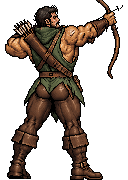
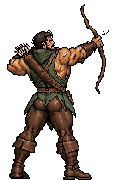
Jay: complete the clipped upper bow limb (A and B), rebuild shards and foot data
Claude-Session: https://claude.ai/code/session_01VCzUnjKd4Ev6m9AwQwPMKa

diff --git a/web/depths/regions.js b/web/depths/regions.js
@@ -3,4 +3,4 @@ const REG = {"ben":{"w":128,"h":180,"pec":[56,42,24,9],"belly":[58,70,22,12],"he
 const SOFT_BELLY = new Set(["sal","ursa","bud","boris","kenta","otis","bao","grizz","olaf","clint","hiro","conrad","magnus","bruin","papa","otto","buck","finn","hercules","ben","ton","tong","boon","somsak","max","boat","daigo","wsumo","wchub","singh","jompon","dave","plerng","bork","wchub_f","wsumo_f","isaac"]);
 const LEAN = new Set(["robin","vael","kong","magician","silas","chueak","dracula","general","roland","tiger","non","kan","sak","oat","phupha","marin","ace","champ","takeshi","talay","keng","tex","jay","q","fah","gunman","dealer","cole","vincent"]);
 /* opaque [top,bottom] rows of each A sprite, used to stand everyone on the same floor line */
-const FOOT = {"ben":[3,177],"ton":[2,178],"jompon":[1,178],"tiger":[1,177],"non":[0,178],"champ":[3,177],"dave":[2,176],"ming":[1,176],"dan":[3,176],"fah":[2,177],"jay":[0,180],"q":[4,178],"tong":[4,176],"bork":[3,177],"daigo":[6,177],"boon":[1,178],"keng":[2,178],"phum":[4,176],"marin":[0,177],"ek":[15,171],"singh":[1,175],"phupha":[20,158],"takeshi":[4,174],"talay":[1,180],"plerng":[0,176],"sak":[11,178],"oat":[11,173],"somsak":[6,176],"tex":[0,179],"boat":[8,176],"kan":[5,177],"max":[3,177],"ace":[5,171],"arthur":[2,176],"chueak":[4,176],"dracula":[3,176],"kong":[14,176],"hercules":[3,177],"robin":[22,156],"lancelot":[2,174],"rex":[4,176],"chai":[2,176],"beowulf":[3,176],"jim":[4,176],"kai":[1,178],"gilga":[2,178],"wanorn":[2,177],"rocco":[6,176],"axel":[4,176],"bruno":[4,176],"barbo":[2,178],"toro":[3,176],"cosmo":[3,176],"hawk":[0,178],"buck":[5,176],"zack":[3,178],"duke":[3,177],"taiko":[5,175],"taurus":[3,178],"vance":[3,176],"koa":[4,176],"brick":[8,175],"frost":[1,176],"ren":[2,176],"ulf":[2,175],"hank":[3,177],"otto":[5,176],"finn":[2,176],"bruto":[2,178],"cliff":[2,177],"marco":[0,176],"lucien":[2,178],"zahir":[4,178],"papa":[6,174],"ivan":[19,156],"morse":[2,177],"leo":[1,176],"kenji":[2,178],"hugo":[23,154],"rusty":[3,176],"enzo":[2,173],"aldric":[22,155],"gus":[1,177],"krit":[3,177],"nate":[2,177],"blaze":[6,172],"graham":[1,178],"rhys":[2,173],"sal":[1,178],"ursa":[2,177],"bud":[0,180],"clay":[2,178],"boris":[1,177],"taro":[0,176],"kenta":[2,177],"otis":[1,178],"nalu":[22,158],"leon":[0,178],"ash":[1,177],"bao":[3,174],"dutch":[3,179],"aurelio":[4,177],"tor":[16,163],"rajah":[3,177],"lupo":[2,178],"grizz":[3,178],"clint":[1,177],"abe":[17,170],"olaf":[3,176],"conrad":[1,178],"hiro":[4,174],"cade":[1,177],"basil":[0,178],"magnus":[3,176],"brody":[3,177],"dex":[24,156],"sombat":[2,178],"reed":[1,177],"vito":[1,180],"bruin":[3,174],"wade":[1,178],"gunnar":[1,180],"ellis":[1,179],"tane":[2,177],"wchain":[16,161],"wneedle":[1,179],"hunter":[5,177],"wchub":[5,175],"wsumo":[2,175],"wbutler":[4,177],"wgorilla":[8,176],"boxer":[2,177],"gunman":[2,176],"dealer":[2,177],"general":[4,177],"magician":[2,177],"vael":[2,178]};
+const FOOT = {"ben":[3,177],"ton":[2,178],"jompon":[1,178],"tiger":[1,177],"non":[0,178],"champ":[3,177],"dave":[2,176],"ming":[1,176],"dan":[3,176],"fah":[2,177],"jay":[4,180],"q":[4,178],"tong":[4,176],"bork":[3,177],"daigo":[6,177],"boon":[1,178],"keng":[2,178],"phum":[4,176],"marin":[0,177],"ek":[15,171],"singh":[1,175],"phupha":[20,158],"takeshi":[4,174],"talay":[1,180],"plerng":[0,176],"sak":[11,178],"oat":[11,173],"somsak":[6,176],"tex":[0,179],"boat":[8,176],"kan":[5,177],"max":[3,177],"ace":[5,171],"arthur":[2,176],"chueak":[4,176],"dracula":[3,176],"kong":[14,176],"hercules":[3,177],"robin":[22,156],"lancelot":[2,174],"rex":[4,176],"chai":[2,176],"beowulf":[3,176],"jim":[4,176],"kai":[1,178],"gilga":[2,178],"wanorn":[2,177],"rocco":[6,176],"axel":[4,176],"bruno":[4,176],"barbo":[2,178],"toro":[3,176],"cosmo":[3,176],"hawk":[0,178],"buck":[5,176],"zack":[3,178],"duke":[3,177],"taiko":[5,175],"taurus":[3,178],"vance":[3,176],"koa":[4,176],"brick":[8,175],"frost":[1,176],"ren":[2,176],"ulf":[2,175],"hank":[3,177],"otto":[5,176],"finn":[2,176],"bruto":[2,178],"cliff":[2,177],"marco":[0,176],"lucien":[2,178],"zahir":[4,178],"papa":[6,174],"ivan":[19,156],"morse":[2,177],"leo":[1,176],"kenji":[2,178],"hugo":[23,154],"rusty":[3,176],"enzo":[2,173],"aldric":[22,155],"gus":[1,177],"krit":[3,177],"nate":[2,177],"blaze":[6,172],"graham":[1,178],"rhys":[2,173],"sal":[1,178],"ursa":[2,177],"bud":[0,180],"clay":[2,178],"boris":[1,177],"taro":[0,176],"kenta":[2,177],"otis":[1,178],"nalu":[22,158],"leon":[0,178],"ash":[1,177],"bao":[3,174],"dutch":[3,179],"aurelio":[4,177],"tor":[16,163],"rajah":[3,177],"lupo":[2,178],"grizz":[3,178],"clint":[1,177],"abe":[17,170],"olaf":[3,176],"conrad":[1,178],"hiro":[4,174],"cade":[1,177],"basil":[0,178],"magnus":[3,176],"brody":[3,177],"dex":[24,156],"sombat":[2,178],"reed":[1,177],"vito":[1,180],"bruin":[3,174],"wade":[1,178],"gunnar":[1,180],"ellis":[1,179],"tane":[2,177],"wchain":[16,161],"wneedle":[1,179],"hunter":[5,177],"wchub":[5,175],"wsumo":[2,175],"wbutler":[4,177],"wgorilla":[8,176],"boxer":[2,177],"gunman":[2,176],"dealer":[2,177],"general":[4,177],"magician":[2,177],"vael":[2,178]};
